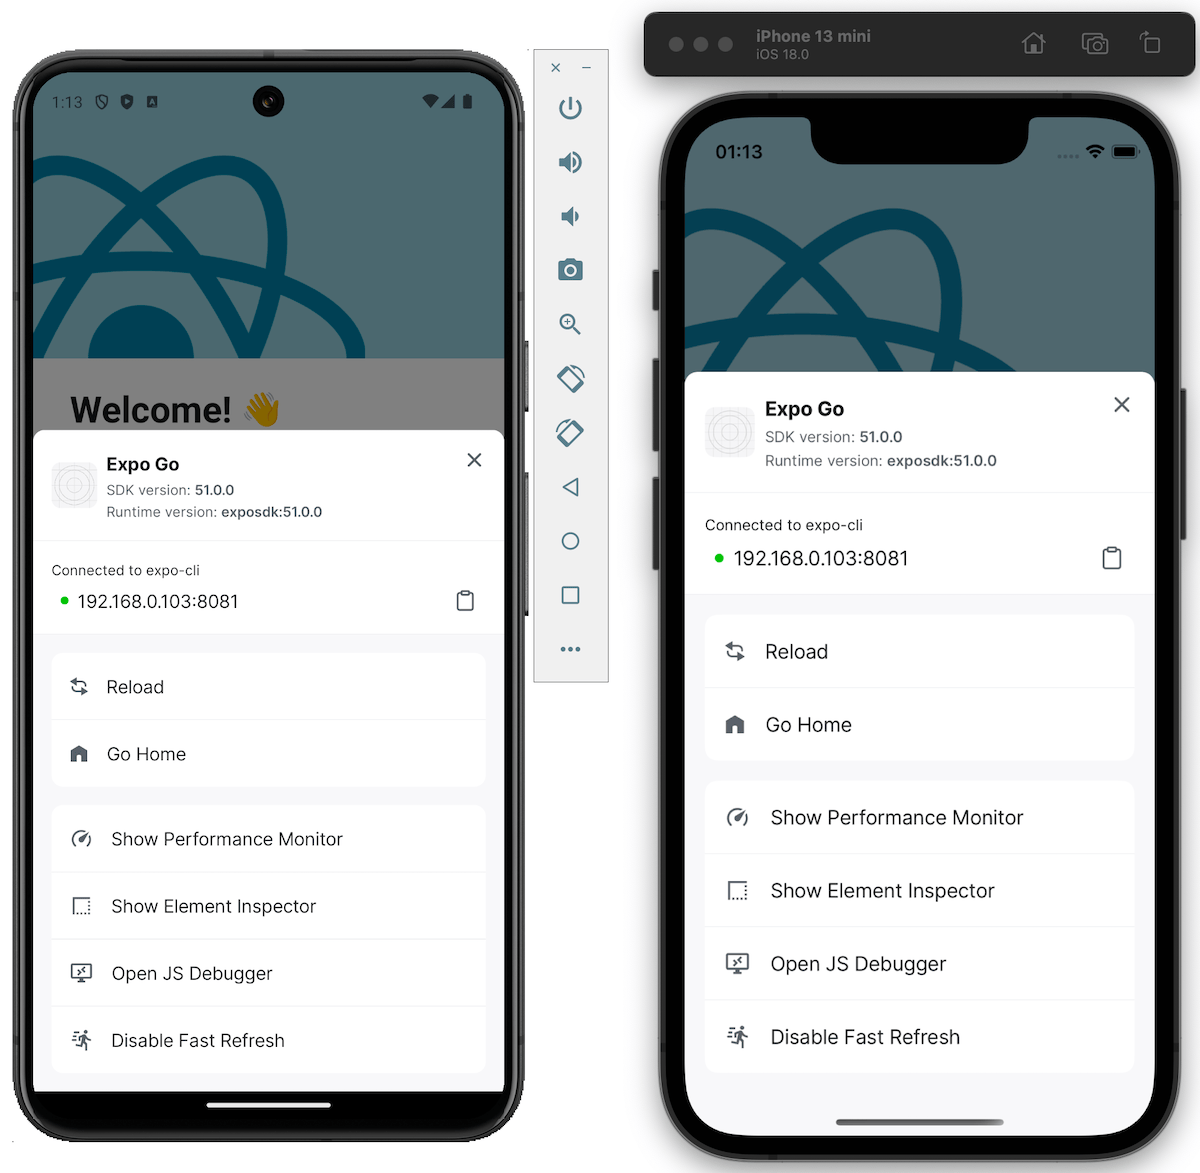
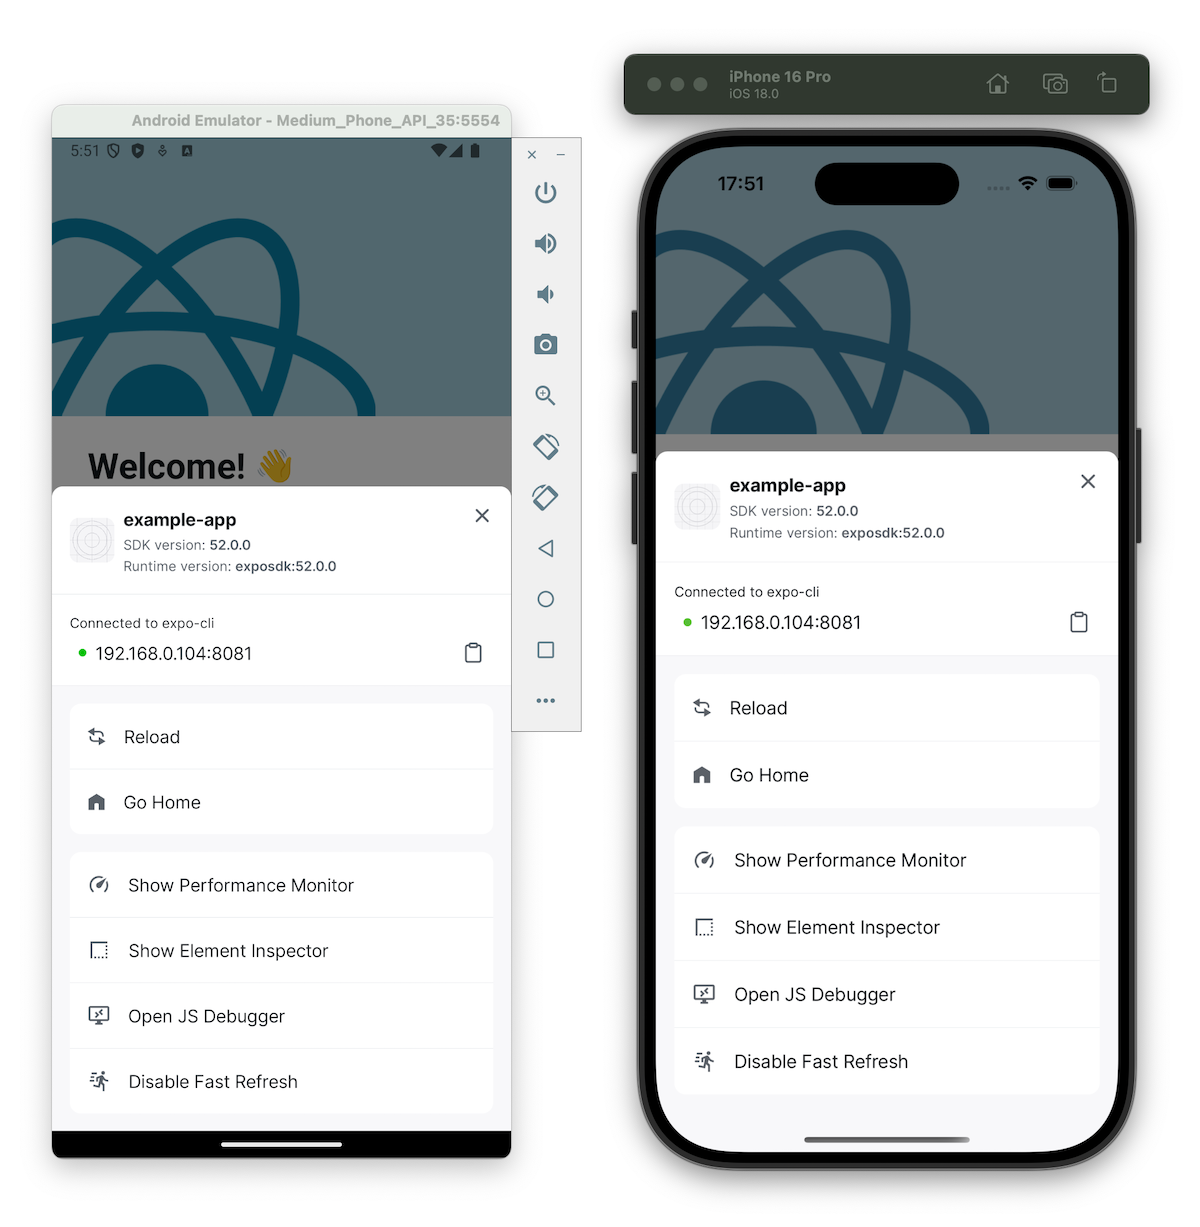
[docs] Update Start developing doc for SDK 52 (#32579)
# Why

<!--
Please describe the motivation for this PR, and link to relevant GitHub
issues, forums posts, or feature requests.
-->

Found 2 screenshots that shows the tab from the default template will
get outdated after SDK 52 release. Also, `babel.config.js` is not
available in the default template.

# How

<!--
How did you build this feature or fix this bug and why?
-->

- Update navigation, navigation-dark, and developer-menu images to
reflect SDK 52 changes in the default template
- Remove `babel-config-js.mdx` scene and section from "Start developing"
doc

# Test Plan

<!--
Please describe how you tested this change and how a reviewer could
reproduce your test, especially if this PR does not include automated
tests! If possible, please also provide terminal output and/or
screenshots demonstrating your test/reproduction.
-->

![CleanShot 2024-11-04 at 17 49
00](https://github.com/user-attachments/assets/d232ca4c-d9b6-4979-a3b1-e95eca7a3c97)

![CleanShot 2024-11-04 at 17 58
56](https://github.com/user-attachments/assets/7cdf0cd7-6d35-4ad6-9709-3ee766bb5a39)

# Checklist

<!--
Please check the appropriate items below if they apply to your diff.
This is required for changes to Expo modules.
-->

- [x] Documentation is up to date to reflect these changes (eg:
https://docs.expo.dev and README.md).
- [ ] Conforms with the [Documentation Writing Style
Guide](https://github.com/expo/expo/blob/main/guides/Expo%20Documentation%20Writing%20Style%20Guide.md)
[…]

diff --git a/docs/scenes/get-started/start-developing/ProjectStructure/index.tsx b/docs/scenes/get-started/start-developing/ProjectStructure/index.tsx
@@ -5,7 +5,6 @@ import { Tab } from './Tab';
 import AppJson from './files/app-json.mdx';
 import App from './files/app.mdx';
 import Assets from './files/assets.mdx';
-import BabelConfigJs from './files/babel-config-js.mdx';
 import Components from './files/components.mdx';
 import Constants from './files/constants.mdx';
 import Hooks from './files/hooks.mdx';
@@ -72,12 +71,6 @@ export function ProjectStructure() {
             type="file"
           />
           <Tab
-            title="babel.config.js"
-            onClick={() => setSelected('babel.config.js')}
-            isSelected={selected === 'babel.config.js'}
-            type="file"
-          />
-          <Tab
             title="package.json"
             onClick={() => setSelected('package.json')}
             isSelected={selected === 'package.json'}
@@ -98,7 +91,6 @@ export function ProjectStructure() {
           {selected === 'hooks' ? <Hooks /> : null}
           {selected === 'scripts' ? <Scripts /> : null}
           {selected === 'app.json' ? <AppJson /> : null}
-          {selected === 'babel.config.js' ? <BabelConfigJs /> : null}
           {selected === 'package.json' ? <PackageJson /> : null}
           {selected === 'tsconfig.json' ? <TsconfigJson /> : null}
         </div>
